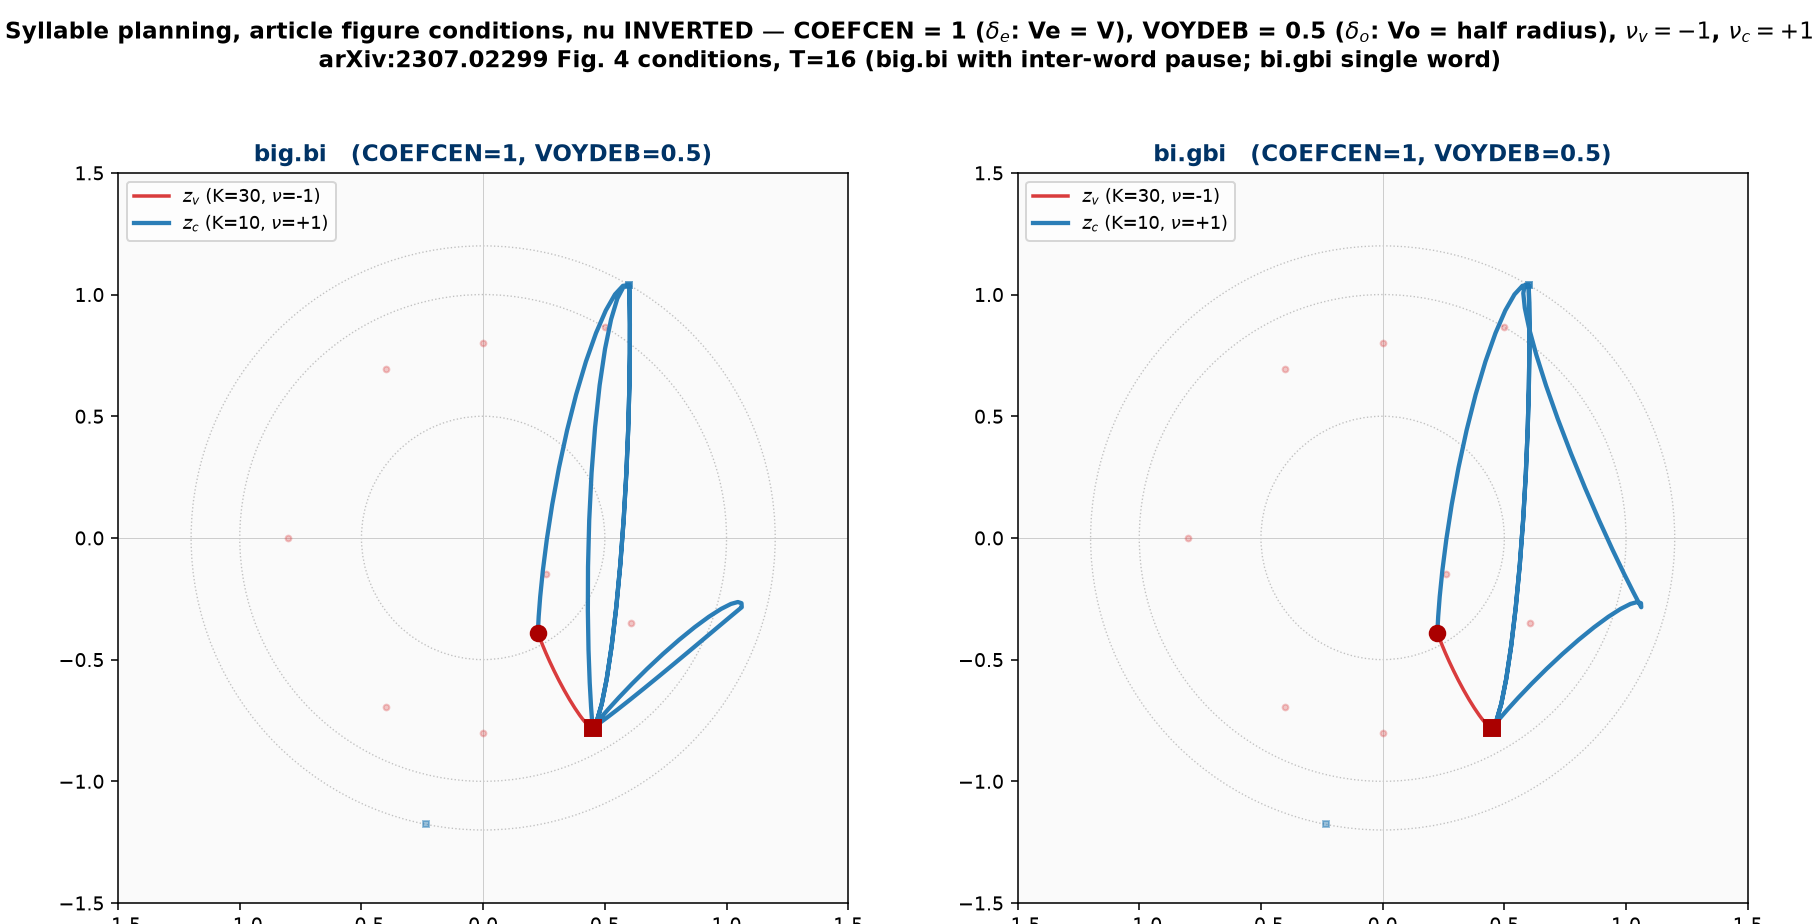
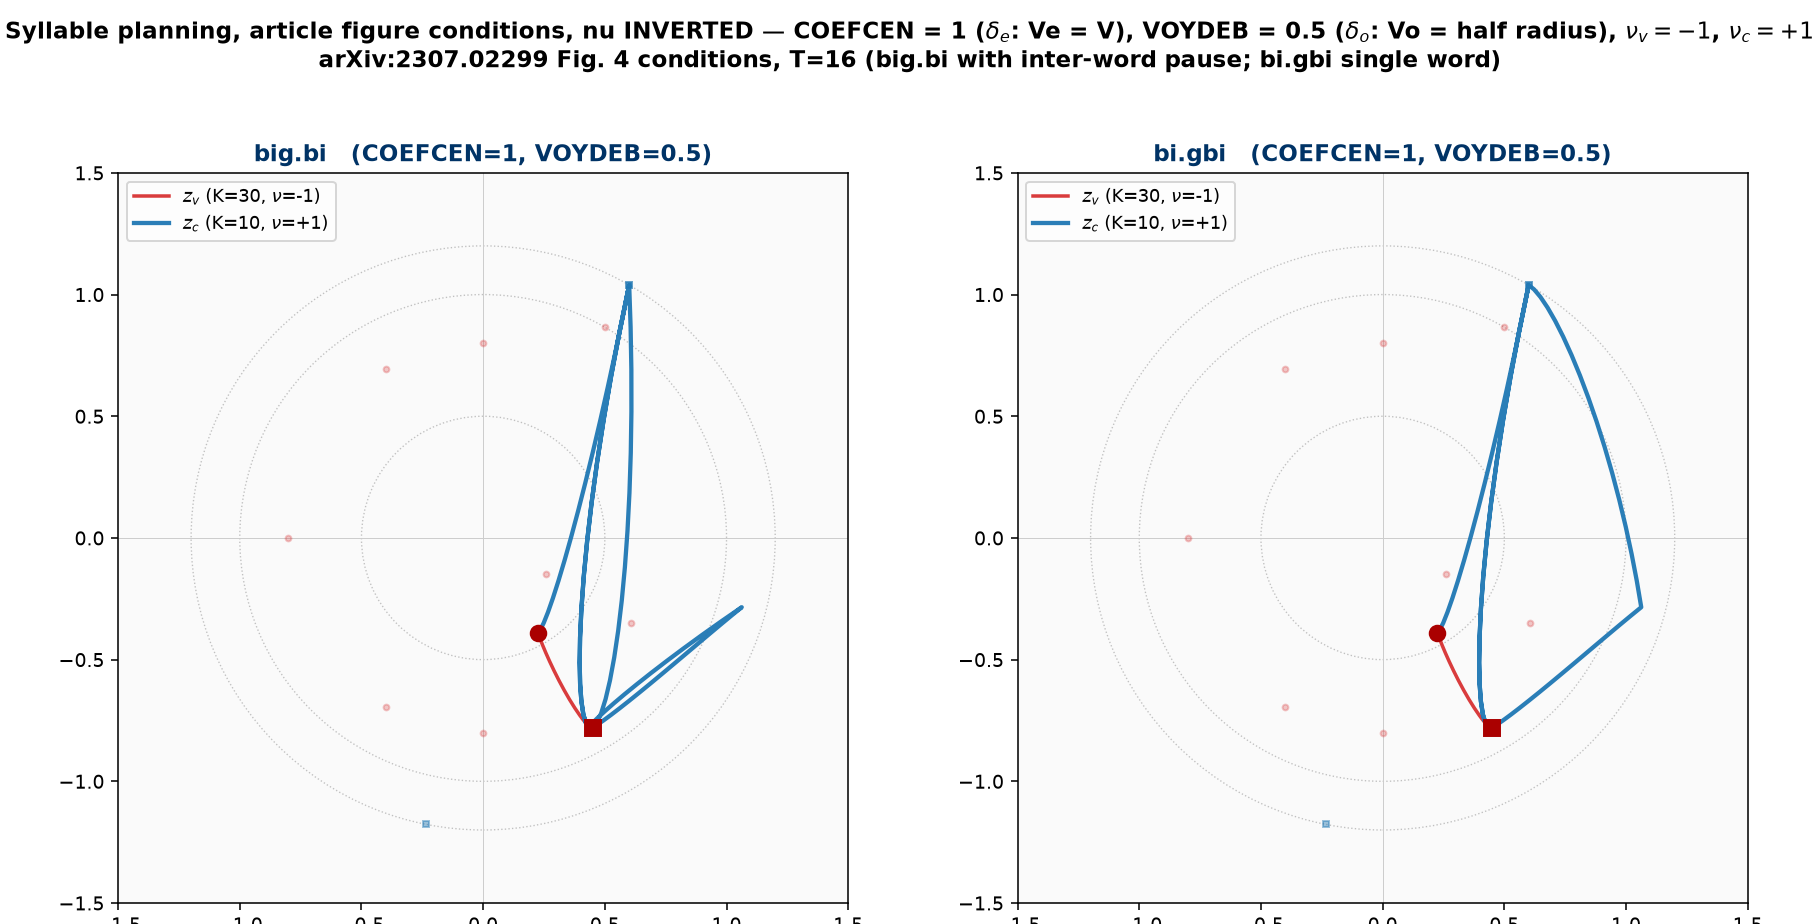
fix(display): teardrop consonant loops ported from the original Syllable_Synthesis display
Author pointer: FBerthommier/Synthable... Syllable_Synthesis synthSYL.py is the code behind the article figures. Its makelooplot/arcplot anchors each cluster sub-arc on the DEPARTURE-side point (pd) with the phase on the ARRIVAL-side point (pa): z = rho*p_a*exp(i*nu*th/K) + (1-rho)*p_d, rho=cos(th/2); approach leg theta in [0,pi] (pd=C, pa=V), release legs [-pi,0] (opint=-1). The phase perturbation thus sits on the SHORTER radius (rho_V 0.9 < rho_C 1.2) -> closed teardrop: belly at the vowel, pointed at the consonant - the article Fig. 4 shape that neither constant-nu anchoring (symmetric lens) nor any Eq.-2 leg pairing could produce (see prior investigation: mirror invariance, rho_C>rho_V dominance, 53 deg tangent gap).

polar_sync.build_branches draws z_c sub-arcs via z_leg_orig (exact port of arcplot). Verified on the bi loop of big.bi (COEFCEN=1, VOYDEB=0.5): closed (|end-start|=0), width peak 0.163 at chord fraction 0.35 from /i/, 0.058->0 at /b/. Reference reproductions still 0.000e+00. Figures regenerated; sweeps use polar_sync (next video regen carries the teardrops). TRAJECTORY_MATCHING.md documents the mechanism.

diff --git a/scripts/polar_sync.py b/scripts/polar_sync.py
@@ -183,6 +183,28 @@ def build_branches(blocks: List[dict], n_steps: int,
                          orientation="inverse")
         return z
 
+    def z_leg_orig(p_dep, p_arr, th_lo, th_hi, K, nu, n_ms,
+                   drop_first=False):
+        """ORIGINAL Syllable_Synthesis display sub-arc (arcplot): the
+        departure-side point is the polar DEPARTURE (pd) and the
+        arrival-side point the ARRIVAL carrying the phase (pa):
+            z(th) = rho(th)*p_arr*exp(i*nu*th/K) + (1-rho(th))*p_dep,
+        rho = cos(th/2), with theta in [0, pi] for the approach leg
+        and [-pi, 0] (first sample dropped, opint=-1) for the release
+        legs. This is what makes the closed V->C->V gesture a
+        TEARDROP: rounded belly at the vowel, pointed at the consonant
+        (article Fig. 4), because the phase perturbation sits on the
+        SHORTER radius (rho_V < rho_C)."""
+        n = max(2, int(round(n_ms * sr_display / 1000.0)))
+        if drop_first:
+            th = np.linspace(th_lo, th_hi, n + 1)[1:]
+        else:
+            th = np.linspace(th_lo, th_hi, n)
+        rho = np.cos(th / 2.0)
+        z_arr = p_arr[0] * np.exp(1j * (p_arr[1] + nu * th / K))
+        z_dep = p_dep[0] * np.exp(1j * p_dep[1])
+        return rho * z_arr + (1 - rho) * z_dep
+
     def z_hold(pt, n_ms):
         z, _ = stationary_point(pt[0], pt[1], duration_ms=n_ms,
                                 sr=sr_display)
@@ -215,8 +237,23 @@ def build_branches(blocks: List[dict], n_steps: int,
             zv_parts.append(z_arc(b["dep"], b["arr"], n_ms, k_v, nu_v))
             pts = [b["dep"]] + [[r, t] for _, r, t in b["cons"]] + [b["arr"]]
             T_ms = b["T"] * t_step_ms
-            subs = [z_arc(pts[j], pts[j + 1], T_ms, k_c, nu_c)
-                    for j in range(len(pts) - 1)]
+            # ORIGINAL Syllable_Synthesis display (makelooplot): each
+            # sub-arc is anchored on its DEPARTURE-side point, phase on
+            # the ARRIVAL-side point; approach leg sweeps theta in
+            # [0, pi], the following legs in [-pi, 0] (first sample
+            # dropped).
+            subs = []
+            for j in range(len(pts) - 1):
+                th_lo, th_hi = (0.0, np.pi) if j == 0 else (-np.pi, 0.0)
+                if j == 0:
+                    # approach leg V1->C1: original pt=[[C1, V1]] i.e.
+                    # pd=C1 (departure), pa=V1 (phase carrier)
+                    leg = z_leg_orig(pts[1], pts[0], th_lo, th_hi,
+                                     k_c, nu_c, T_ms)
+                else:
+                    leg = z_leg_orig(pts[j], pts[j + 1], th_lo, th_hi,
+                                     k_c, nu_c, T_ms, drop_first=True)
+                subs.append(leg)
             zc = np.concatenate(subs)
             if len(zc) < nd:
                 zc = np.concatenate(

diff --git a/docs/TRAJECTORY_MATCHING.md b/docs/TRAJECTORY_MATCHING.md
@@ -153,6 +153,34 @@ bit-identical (0.000e+00) because every validated gate uses symmetric
 delta_o = delta_e, where the new formula gives the same value; the
 "big@bi" schwa demonstrations are preserved.
 
+### Teardrop loop SOLVED — ported from the original Syllable_Synthesis display
+
+The author pointed to FBerthommier/Syllable_Synthesis (`synthSYL.py`,
+the code behind the article figures). Its display builder
+`makelooplot`/`arcplot` differs from our reconstruction in the sub-arc
+ANCHORING: each leg is drawn with the departure-side point as polar
+departure (pd) and the arrival-side point as phase carrier (pa):
+`z(θ) = ρ(θ)·p_a·e^{iνθ/K} + (1−ρ(θ))·p_d`, ρ = cos(θ/2), with the
+approach leg (V→C) sweeping θ ∈ [0, π] (pd = C, pa = V) and the
+release legs θ ∈ [−π, 0] (first sample dropped, opint = −1). The phase
+perturbation therefore sits on the SHORTER radius (ρ_V = 0.9 < ρ_C =
+1.2), which produces exactly the article's closed TEARDROP: rounded
+belly at the vowel, pointed at the consonant. (Our previous drawing
+put the phase on the arrival C — with ρ_C larger, the bow always
+bulged consonant-side; a closed V→b→V pair in that anchoring is a
+symmetric lens, and the earlier wedge attempt was rejected.)
+
+`polar_sync.build_branches` now draws z_c sub-arcs with this original
+anchoring (z_leg_orig). Verified on the 'bi' loop of big.bi
+(COEFCEN=1, VOYDEB=0.5): closed loop (|end−start| = 0.0000), width
+profile peaks at chord fraction 0.35 from /i/ (0.163) and falls to
+0.058→0 at /b/ — belly at the vowel, pointed at the consonant, as in
+Figure 4. All reference reproductions remain bit-identical
+(0.000e+00). Figures regenerated:
+fig_bigbi_article_conditions_nu_inv.png,
+fig_words_article_conditions_nu_inv.png. Sweep scripts use
+polar_sync, so the next video regeneration carries the teardrops.
+
 ## Limitations / next step
 
 The 472-px reference allows topology matching and target-layout
